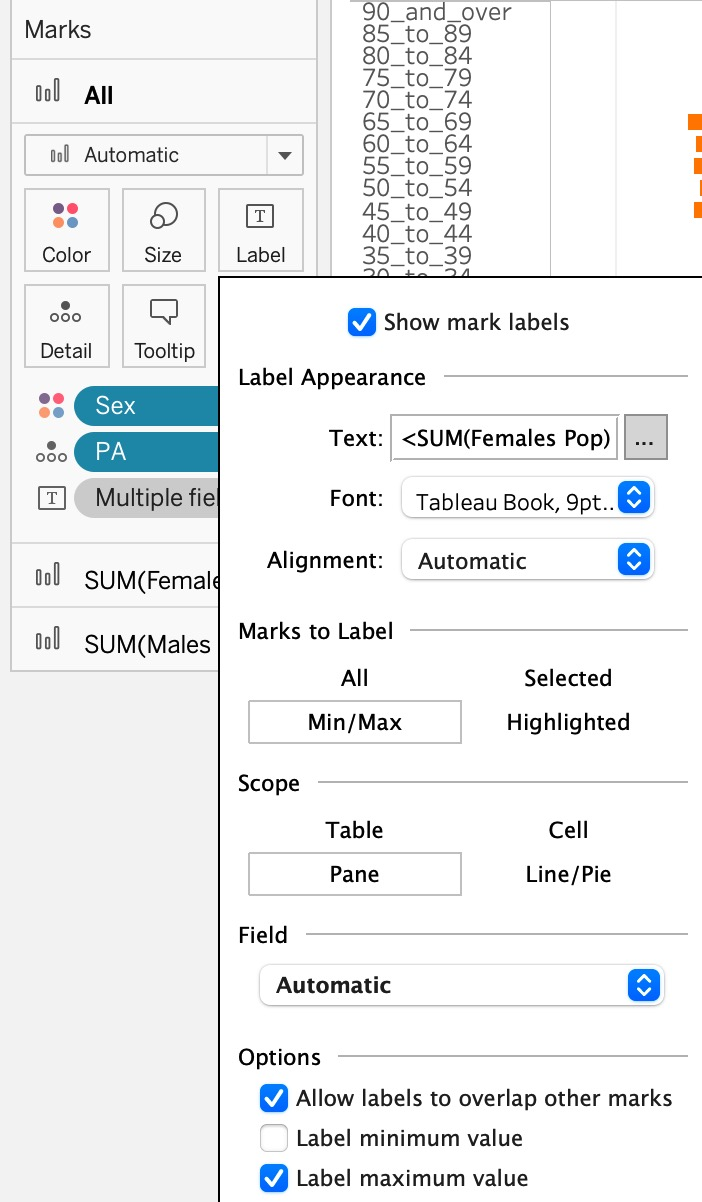
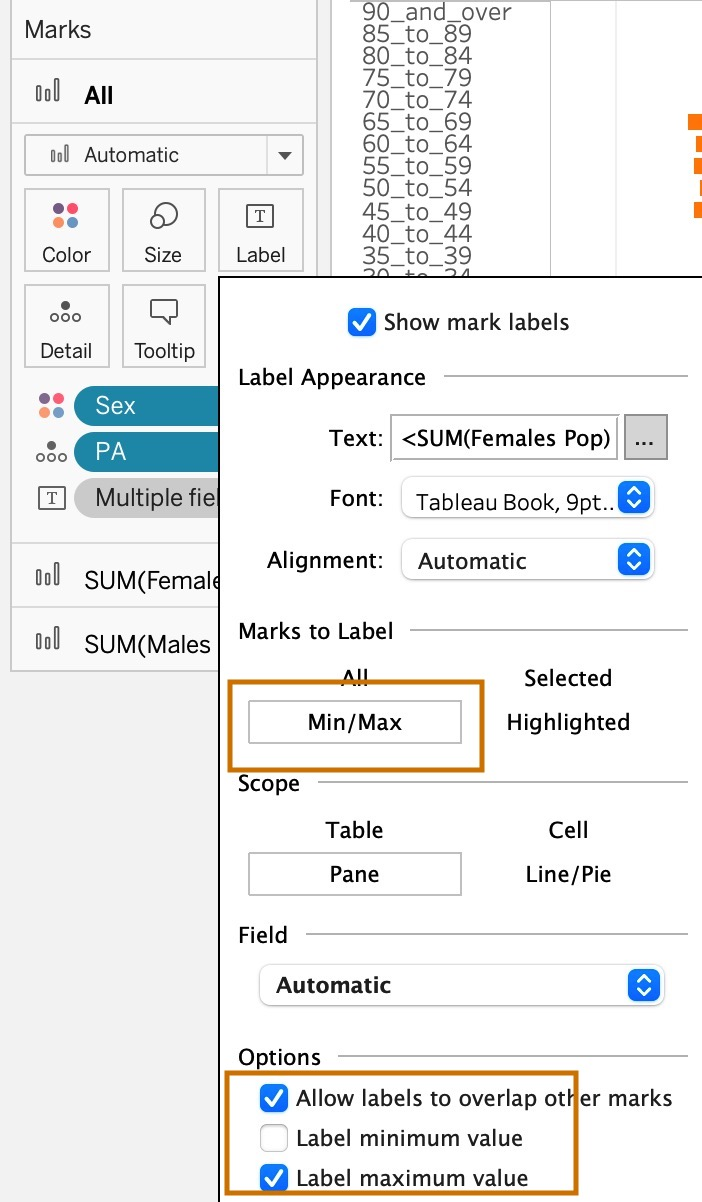
21 Jan Push. Completed Takehome-1

Changed region(s): [[0.2991, 0.5541, 0.7179, 0.6464], [0.2991, 0.8927, 0.8376, 1.0]]

diff --git a/_site/takehome_1.html b/_site/takehome_1.html
@@ -252,7 +252,7 @@ ul.task-list li input[type="checkbox"] {
 <section id="choosing-the-9-planning-areas" class="level1">
 <h1>2. Choosing The 9 Planning Areas</h1>
 <p>The following nine planning area are chosen: <strong>Tempines, Seng Kang, Ang Mo Kio, Woodlands, Chua Chu Kang, Jurong West, Toa Payoh, Queenstown, Bukit Timah.</strong></p>
-<p>Justification/Reasons to choose these area: these planning areas are top 2 or 3 in population within their own regions, which means the population size is sufficient for us to visualize the demographic structure, compared to those areas with a smaller population.</p>
+<p>Justification/Reasons to choose these areas: these planning areas are top 2 or 3 in population within their own regions, which means the population size is sufficient for us to visualize the demographic structure, compared to those areas with a smaller population.</p>
 </section>
 <section id="visualization-on-tableau" class="level1">
 <h1>3. Visualization on Tableau</h1>
@@ -268,6 +268,12 @@ ul.task-list li input[type="checkbox"] {
 </section>
 <section id="insights-and-observations" class="level1">
 <h1>4. Insights and Observations</h1>
+<ol type="1">
+<li><p>As a general trend, the visualization indicates that age pyramids of 9 planning areas in Singapore tend to be constrictive, meaning that the bottom part (i.e., children and youths) is narrow and has a smaller population, whereas the middle-top (i.e., mid-age/elderly) part is huge in population. This shows Singapore has entered into an aging society.</p></li>
+<li><p>Sengkang, as one of the more newly established estate areas, have the youngest demographic structure among all selected areas, as it is shown that the age pyramid peaks at 35-39 (for female) and 40-44 (for male); the bottom part of age pyramid of Sengkang is also the widest among all, representing a more significant number of young people in the area.</p></li>
+<li><p>For earlier established areas such as Ang Mo Kio, Choa Chu Kang, Tampines and Woodlands, the age pyramids tilt towards the top to a large extent, indicating a more aging community within the areas.</p></li>
+<li><p>Government should pay more attention to these areas and implement more elderly-oriented facilities, such that the needs of aged people can be taken care of.</p></li>
+</ol>
 </section>
 <section id="step-by-step-procedures" class="level1">
 <h1>5. Step-by-Step Procedures</h1>
@@ -338,42 +344,47 @@ ul.task-list li input[type="checkbox"] {
 <tbody>
 <tr class="odd">
 <td style="text-align: left;">1</td>
-<td style="text-align: left;">Load the required data “residents_by_area.csv”</td>
+<td style="text-align: left;">Create new calculation field “Col” using the following formula (To assign column index)</td>
 <td style="text-align: left;"><img src="takehome_1_steps/7.jpg" class="img-fluid"></td>
 </tr>
 <tr class="even">
 <td style="text-align: left;">2</td>
-<td style="text-align: left;">Press the “+” button, select “Add clean step”</td>
+<td style="text-align: left;">Create new calculation field “Rows” using the following formula (To assign row index)</td>
 <td style="text-align: left;"><img src="takehome_1_steps/8.jpg" class="img-fluid"></td>
 </tr>
 <tr class="odd">
 <td style="text-align: left;">3</td>
-<td style="text-align: left;">Select “Filter - Selected values”</td>
+<td style="text-align: left;">Create new variable “Males Pop” so that only male population is displayed</td>
 <td style="text-align: left;"><img src="takehome_1_steps/9.jpg" class="img-fluid"></td>
 </tr>
 <tr class="even">
 <td style="text-align: left;">4</td>
-<td style="text-align: left;">Select the 9 destinated planning areas</td>
+<td style="text-align: left;">Create new variable “Females Pop” so that only female population is displayed</td>
 <td style="text-align: left;"><img src="takehome_1_steps/10.jpg" class="img-fluid"></td>
 </tr>
 <tr class="odd">
 <td style="text-align: left;">5</td>
-<td style="text-align: left;">Remove Column <em>Time</em>, as all rows are from year 2022, hence the column is redundant</td>
+<td style="text-align: left;">Drag “Females Pop” and “Males Pop” onto Column Page, and drag “AG” to Rows Page. Right click horizontal axis, select “edit axis” and check “Reversed” field.</td>
 <td style="text-align: left;"><img src="takehome_1_steps/11.jpg" class="img-fluid"></td>
 </tr>
 <tr class="even">
 <td style="text-align: left;">6</td>
-<td style="text-align: left;">Output the prepared data as .csv file</td>
-<td style="text-align: left;"><img src="takehome_1_steps/12.jpg" class="img-fluid"></td>
+<td style="text-align: left;">Drag “Col” onto Column Page and drag “Rows” to Rows Page; Drag “PA” to Detail Mark</td>
+<td style="text-align: left;"><img src="takehome_1_steps/12-0.jpg" class="img-fluid"></td>
 </tr>
 <tr class="odd">
 <td style="text-align: left;">7</td>
-<td style="text-align: left;">Output the prepared data as .csv file</td>
-<td style="text-align: left;"><img src="takehome_1_steps/13.jpg" class="img-fluid"></td>
+<td style="text-align: left;">For “Col” and “Rows” fields, select Compute Using - PA</td>
+<td style="text-align: left;"><img src="takehome_1_steps/12.jpg" class="img-fluid"></td>
 </tr>
 <tr class="even">
 <td style="text-align: left;">8</td>
-<td style="text-align: left;">Output the prepared data as .csv file</td>
+<td style="text-align: left;">Under Marks - All, select min/max Label for SUM(Females Pop) and SUM(Males Pop); uncheck “Label minimum value” to display the maximum values only</td>
+<td style="text-align: left;"><img src="takehome_1_steps/13.jpg" class="img-fluid"></td>
+</tr>
+<tr class="odd">
+<td style="text-align: left;">9</td>
+<td style="text-align: left;">Rename the worksheet and save.</td>
 <td style="text-align: left;"><img src="takehome_1_steps/14.jpg" class="img-fluid"></td>
 </tr>
 </tbody>

diff --git a/_site/Gallery.html b/_site/Gallery.html
@@ -226,7 +226,35 @@ Liang Minghao
 </a>
 </div>
 </div>
-<div class="quarto-post image-right" data-index="1" data-listing-file-modified-sort="1673948970871" data-listing-reading-time-sort="0.285">
+<div class="quarto-post image-right" data-index="1" data-categories="in-class exercise" data-listing-date-sort="1673625600000" data-listing-file-modified-sort="1674111527798" data-listing-reading-time-sort="0.075">
+<div class="thumbnail">
+<p><a href="./inclass_1.html"> <img src="./inclass_1_prev.jpg" class="thumnail-image"> </a></p>
+</div>
+<div class="body">
+<a href="./inclass_1.html">
+<h3 class="no-anchor listing-title">
+In-Class Exercise 1
+</h3>
+<div class="listing-subtitle">
+
+</div>
+<div class="listing-description">
+<p>Visualization of Sales and Profit Summary of a store using Tableau Desktop.</p>
+</div>
+</a>
+</div>
+<div class="metadata">
+<a href="./inclass_1.html">
+<div class="listing-date">
+Jan 14, 2023
+</div>
+<div class="listing-author">
+Liang Minghao
+</div>
+</a>
+</div>
+</div>
+<div class="quarto-post image-right" data-index="2" data-listing-file-modified-sort="1673948970871" data-listing-reading-time-sort="0.285">
 <div class="thumbnail">
 <p><a href="./index.html"> <img src="./IMG_9043.jpg" class="thumnail-image"> </a></p>
 </div>
@@ -247,13 +275,9 @@ This website shows the collection of my visual analytics exercises and projects.
 <a href="./index.html"> </a>
 </div>
 </div>
-<div class="quarto-post image-right" data-index="2" data-categories="take-home exercise" data-listing-date-sort="1673539200000" data-listing-file-modified-sort="1674110668576" data-listing-reading-time-sort="0.265">
+<div class="quarto-post image-right" data-index="3" data-categories="take-home exercise" data-listing-date-sort="1673539200000" data-listing-file-modified-sort="1674238418704" data-listing-reading-time-sort="5.745">
 <div class="thumbnail">
-<a href="./takehome_1.html">
-<div class="thumbnail-image">
-
-</div>
-</a><p><a href="./takehome_1.html"></a></p>
+<p><a href="./takehome_1.html"> <img src="./takehome_1_steps/final.jpg" class="thumnail-image"> </a></p>
 </div>
 <div class="body">
 <a href="./takehome_1.html">
@@ -272,38 +296,6 @@ Take-Home Exercise 1
 <a href="./takehome_1.html">
 <div class="listing-date">
 Jan 13, 2023
-</div>
-<div class="listing-author">
-Liang Minghao
-</div>
-</a>
-</div>
-</div>
-<div class="quarto-post image-right" data-index="3" data-categories="take-home exercise" data-listing-date-sort="1673625600000" data-listing-file-modified-sort="1674111135314" data-listing-reading-time-sort="0.005">
-<div class="thumbnail">
-<a href="./inclass_1.html">
-<div class="thumbnail-image">
-
-</div>
-</a><p><a href="./inclass_1.html"></a></p>
-</div>
-<div class="body">
-<a href="./inclass_1.html">
-<h3 class="no-anchor listing-title">
-Take-Home Exercise 1
-</h3>
-<div class="listing-subtitle">
-
-</div>
-<div class="listing-description">
-<p>Visualization of Sales and Profit Summary of a store using Tableau Desktop.</p>
-</div>
-</a>
-</div>
-<div class="metadata">
-<a href="./inclass_1.html">
-<div class="listing-date">
-Jan 14, 2023
 </div>
 <div class="listing-author">
 Liang Minghao

diff --git a/_site/index.html b/_site/index.html
@@ -85,7 +85,7 @@ ul.task-list li input[type="checkbox"] {
     </a>
     <ul class="dropdown-menu" aria-labelledby="nav-menu-hands-on-exercise">    
         <li>
-    <a class="dropdown-item" href="./hands_on_1.html">
+    <a class="dropdown-item" href="./handson_1.html">
  <span class="dropdown-text">Hands-on Exercise 1: ggplot using R</span></a>
   </li>  
     </ul>
@@ -96,7 +96,7 @@ ul.task-list li input[type="checkbox"] {
     </a>
     <ul class="dropdown-menu" aria-labelledby="nav-menu-in-class-exercise">    
         <li>
-    <a class="dropdown-item" href="https://public.tableau.com/app/profile/minghao.liang/viz/inclass-exercise-1/Dashboard1">
+    <a class="dropdown-item" href="./inclass_1.html">
  <span class="dropdown-text">In-Class 1: Tableau Visualisation</span></a>
   </li>  
     </ul>
@@ -107,7 +107,7 @@ ul.task-list li input[type="checkbox"] {
     </a>
     <ul class="dropdown-menu" aria-labelledby="nav-menu-take-home-exercise">    
         <li>
-    <a class="dropdown-item" href="./take-home-1.html">
+    <a class="dropdown-item" href="./takehome_1.html">
  <span class="dropdown-text">Take-Home exercise 1</span></a>
   </li>  
     </ul>
